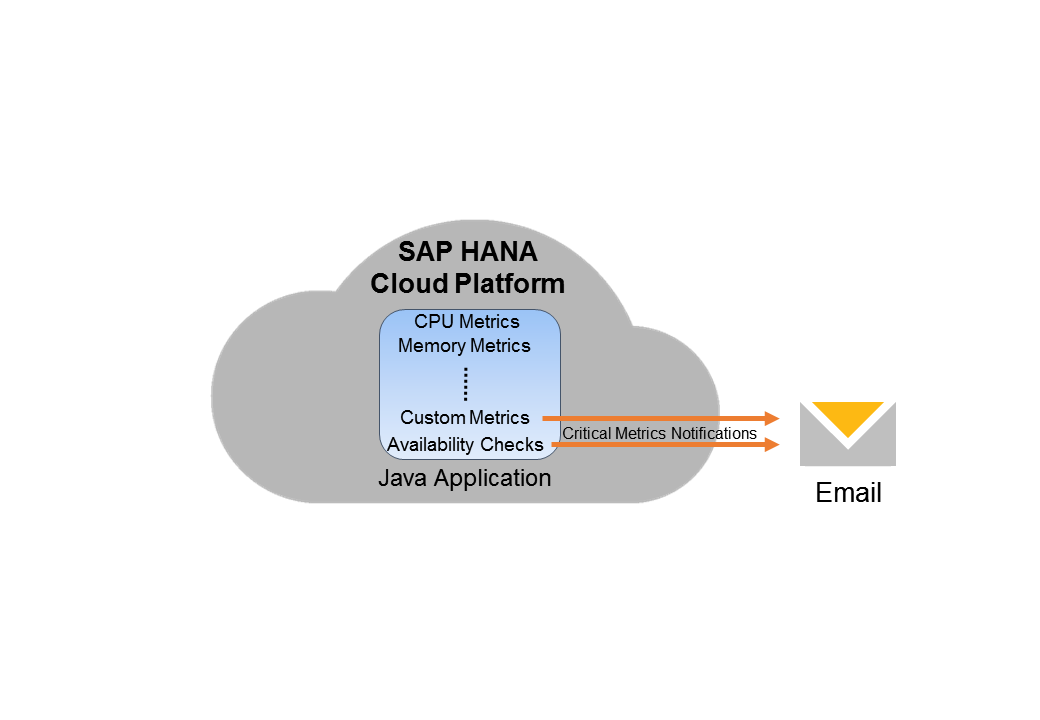
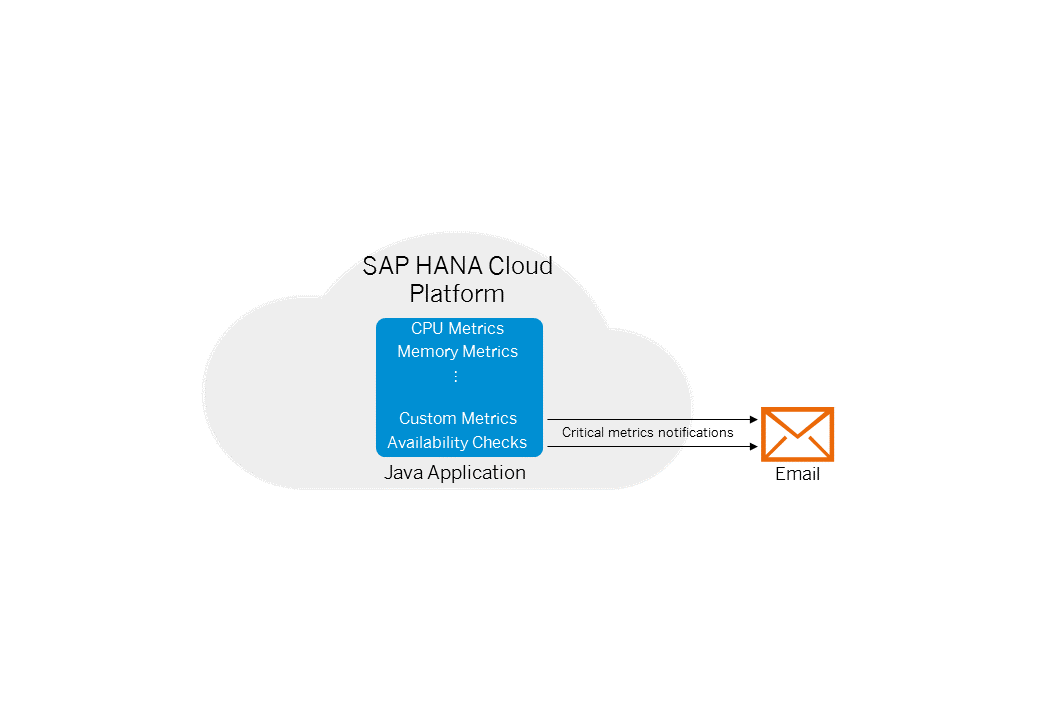
FIX scenario changes and updated graphics in readme.

Changed region(s): [[0.1846, 0.3056, 0.8615, 0.7028]]

diff --git a/src/main/java/com/sap/hana/cloud/samples/mail/Demo.java b/src/main/java/com/sap/hana/cloud/samples/mail/Demo.java
@@ -25,23 +25,11 @@ public class Demo {
 		ApplicationIdentifier appId1 = new ApplicationIdentifier(landscapeFqdn1, account1, application1);
 		appList.add(appId1);
 
-		String landscapeFqdn2 = "api.hana.ondemand.com";
+		String landscapeFqdn2 = "api.us1.hana.ondemand.com";
 		String account2 = "a2 ";
 		String application2 = "app2";
 		ApplicationIdentifier appId2 = new ApplicationIdentifier(landscapeFqdn2, account2, application2);
 		appList.add(appId2);
-
-		String landscapeFqdn3 = "api.us1.hana.ondemand.com";
-		String account3 = "b1";
-		String application3 = "app3";
-		ApplicationIdentifier appId3 = new ApplicationIdentifier(landscapeFqdn3, account3, application3);
-		appList.add(appId3);
-
-		String landscapeFqdn4 = "api.us1.hana.ondemand.com";
-		String account4 = "b2";
-		String application4 = "app4";
-		ApplicationIdentifier appId4 = new ApplicationIdentifier(landscapeFqdn4, account4, application4);
-		appList.add(appId4);
 
 		MetricsWatcher metricsWatcher = new MetricsWatcher(appList, mailTo, mailToSms, user, password);
 		metricsWatcher.start();

diff --git a/src/main/java/com/sap/hana/cloud/samples/mail/MetricsWatcher.java b/src/main/java/com/sap/hana/cloud/samples/mail/MetricsWatcher.java
@@ -45,7 +45,7 @@ public class MetricsWatcher {
 	public MetricsWatcher(List<ApplicationIdentifier> applications, String mailTo, String mailToSms, String user,
 			String password) {
 		this.applications = applications;
-		this.executor = new ScheduledThreadPoolExecutor(4);
+		this.executor = new ScheduledThreadPoolExecutor(2);
 		this.mailTo = mailTo;
 		this.mailToSms = mailToSms;
 		this.user = user;

diff --git a/README.md b/README.md
@@ -35,7 +35,7 @@ The response contains the metrics of the requested application and the states of
 
 Configuration
 -------------
-Download this project locally and follow the instructions in [Tutorial: Implementing a Notification Application](http://scn.sap.com/docs/DOC-71317).
+Download this project locally and follow the instructions in [Tutorial: Implementing a Notification Application](https://help.hana.ondemand.com/help/frameset.htm?9c74305e78fa4d8181ba13cbde55d5cf.html).
 
 Authors
 -------
